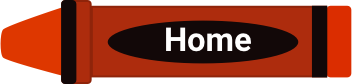
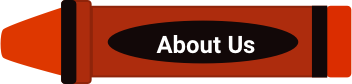
Changes navBar crayons and added mobile linka

Changed region(s): [[0.4375, 0.3095, 0.75, 0.6429]]

diff --git a/index.html b/index.html
@@ -32,7 +32,10 @@
         </li>
       </ul>
       <ul id="nav-mobile" class="side-nav">
-        <li><a href="#">Navbar Link</a></li>
+        <li><a href="#">About Us</a></li>
+        <li><a href="#">Program</a></li>
+        <li><a href="#">Calendar</a></li>
+        <li><a href="#">Forms</a></li>
       </ul>
       <a href="#" data-activates="nav-mobile" class="button-collapse "><i class="material-icons nav-hamburger">menu</i></a>
     </div>
